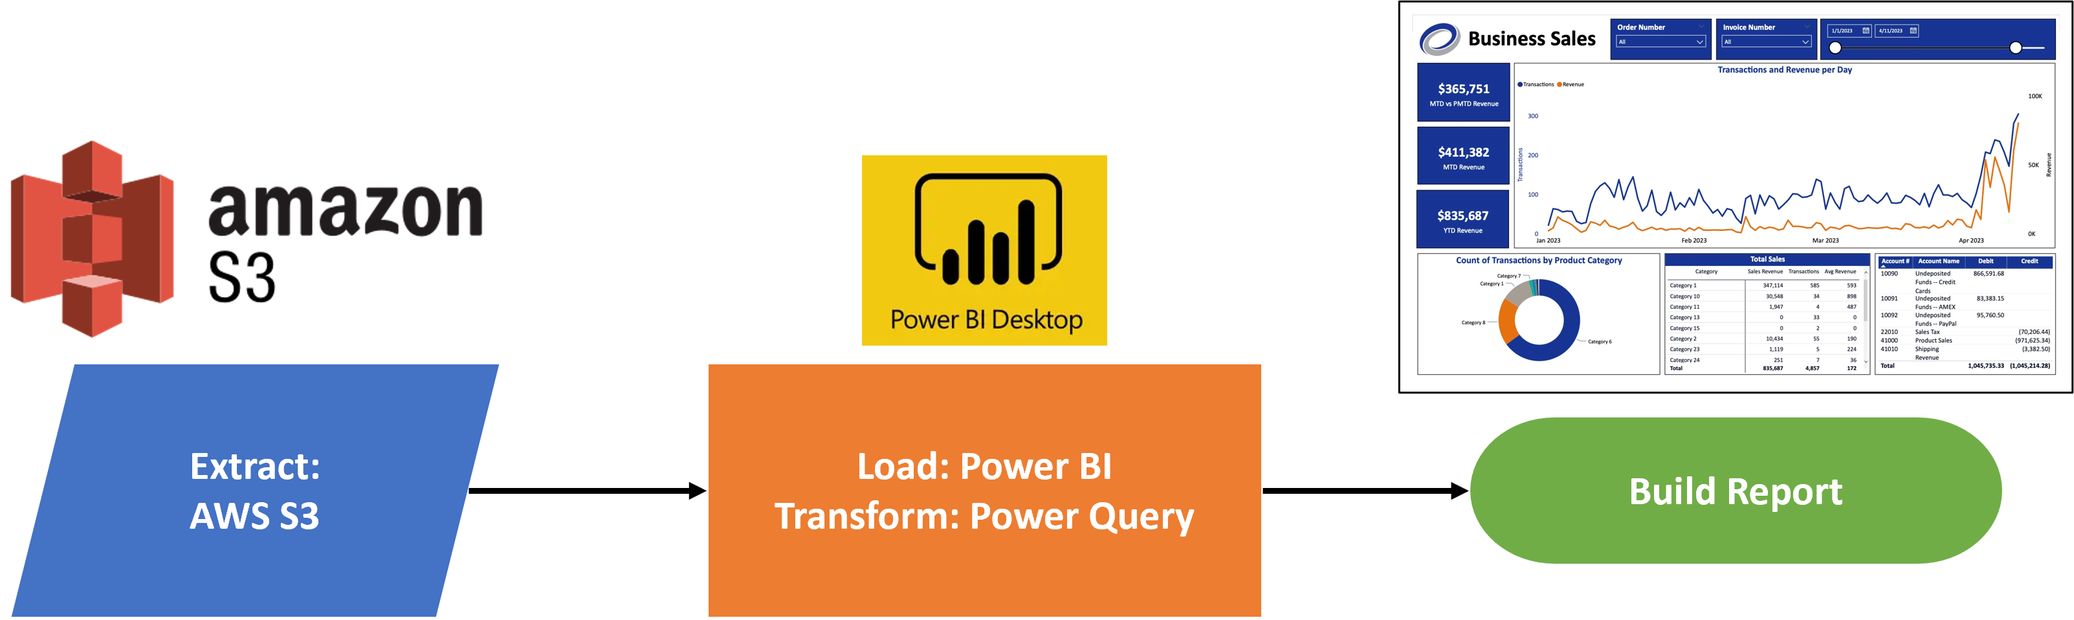
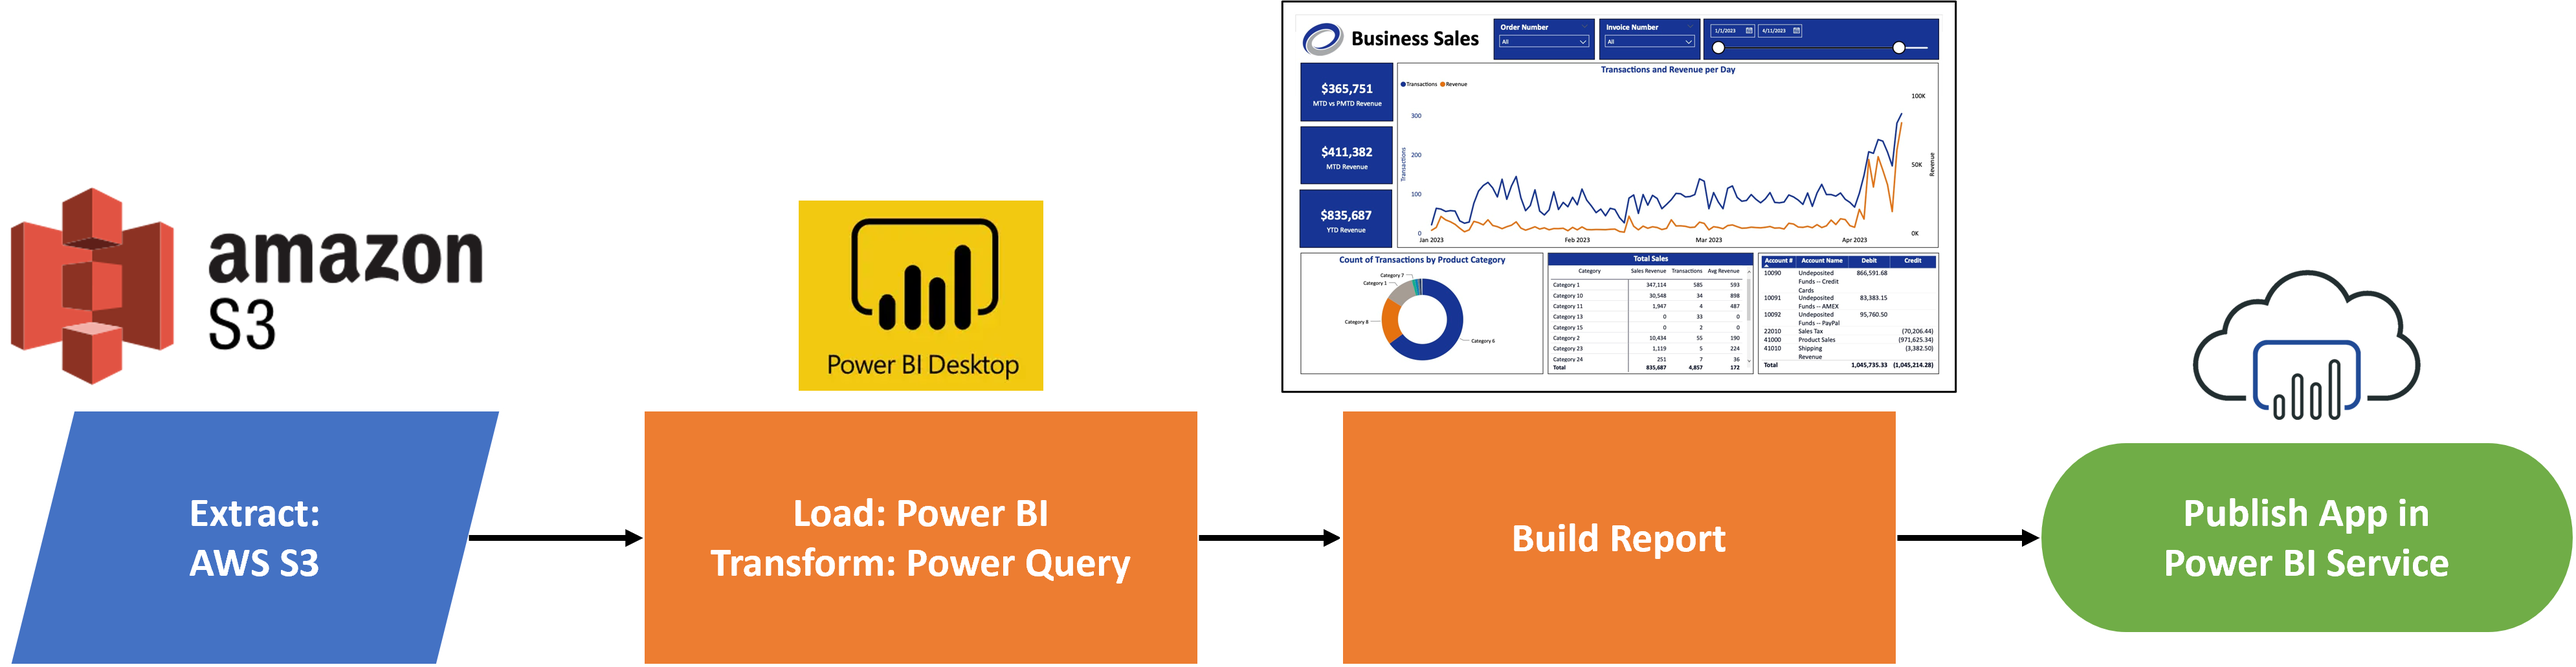
Updates

diff --git a/Power BI + Python + Machine Learning Forecasting/README.md b/Power BI + Python + Machine Learning Forecasting/README.md
@@ -8,6 +8,8 @@ My director asked one of my colleagues and I to try building a machine learning 
 - [Details](#details)
 - [By the Numbers](#by-the-numbers)
 - [Tools Used](#tools-used)
+- [Data Engineering Pipeline](#data-engineering-pipeline)
+- [Data Model](#data-model)
 - [What I learned](#what-i-learned)
 - [Useful resources](#useful-resources)
 
@@ -42,6 +44,14 @@ Files included for view in this project:
   - DAX
   - Power Query
 - Python
+
+## Data Engineering Pipeline
+
+!["Pipeline"](./Power%20BI%20+%20Python%20+%20Machine%20Learning%20Forecasting%20Pipeline.png)
+
+## Data Model
+
+!["Data Model"](./Power%20BI%20+%20Python%20+%20Machine%20Learning%20Forecasting%20Data%20Model.JPG)
 
 ## What I learned
 

diff --git a/Manufacturing Supervisor Dashboards/README.md b/Manufacturing Supervisor Dashboards/README.md
@@ -8,6 +8,8 @@ After working on several healthcare and private equity financial reports, it fel
 - [Details](#details)
 - [By the Numbers](#by-the-numbers)
 - [Tools Used](#tools-used)
+- [Data Engineering Pipeline](#data-engineering-pipeline)
+- [Data Model](#data-model)
 - [What I learned](#what-i-learned)
 - [Useful resources](#useful-resources)
 
@@ -34,6 +36,14 @@ Files included for view in this project:
   - DAX
   - Power Query
 - SharePoint (data source)
+
+## Data Engineering Pipeline
+
+!["Pipeline"](./Manufacturing%20Supervisor%20Dashboards%20Pipeline.png)
+
+## Data Model
+
+!["Data Model"](./Manufacturing%20Supervisor%20Dashboards%20Data%20Model.JPG)
 
 ## What I learned
 

diff --git a/Manufacturing Client Demo/README.md b/Manufacturing Client Demo/README.md
@@ -8,6 +8,8 @@ It's always interesting to discover what new challenge you might come across whe
 - [Details](#details)
 - [By the Numbers](#by-the-numbers)
 - [Tools Used](#tools-used)
+- [Data Engineering Pipeline](#data-engineering-pipeline)
+- [Data Model](#data-model)
 - [What I learned](#what-i-learned)
 - [Useful resources](#useful-resources)
 
@@ -34,6 +36,14 @@ Files included for view in this project:
   - DAX
   - Power Query
 - Power BI Data Flows (data source)
+
+## Data Engineering Pipeline
+
+!["Pipeline"](./Manufacturing%20Client%20Demo%20Pipeline.png)
+
+## Data Model
+
+!["Data Model"](./Manufacturing%20Client%20Demo%20Data%20Model.JPG)
 
 ## What I learned
 

diff --git a/Internal Use Work Tracker/README.md b/Internal Use Work Tracker/README.md
@@ -8,6 +8,8 @@ This was a great challenge because instead of creating dashboards for clients, n
 - [Details](#details)
 - [By the Numbers](#by-the-numbers)
 - [Tools Used](#tools-used)
+- [Data Engineering Pipeline](#data-engineering-pipeline)
+- [Data Model](#data-model)
 - [What I learned](#what-i-learned)
 - [Useful resources](#useful-resources)
 
@@ -34,6 +36,14 @@ Files included for view in this project:
   - DAX
   - Power Query
 - SharePoint (data source)
+
+## Data Engineering Pipeline
+
+!["Pipeline"](./Internal%20Use%20Work%20Tracker%20Pipeline.png)
+
+## Data Model
+
+!["Data Model"](./Internal%20Use%20Work%20Tracker%20Data%20Model.JPG)
 
 ## What I learned
 
